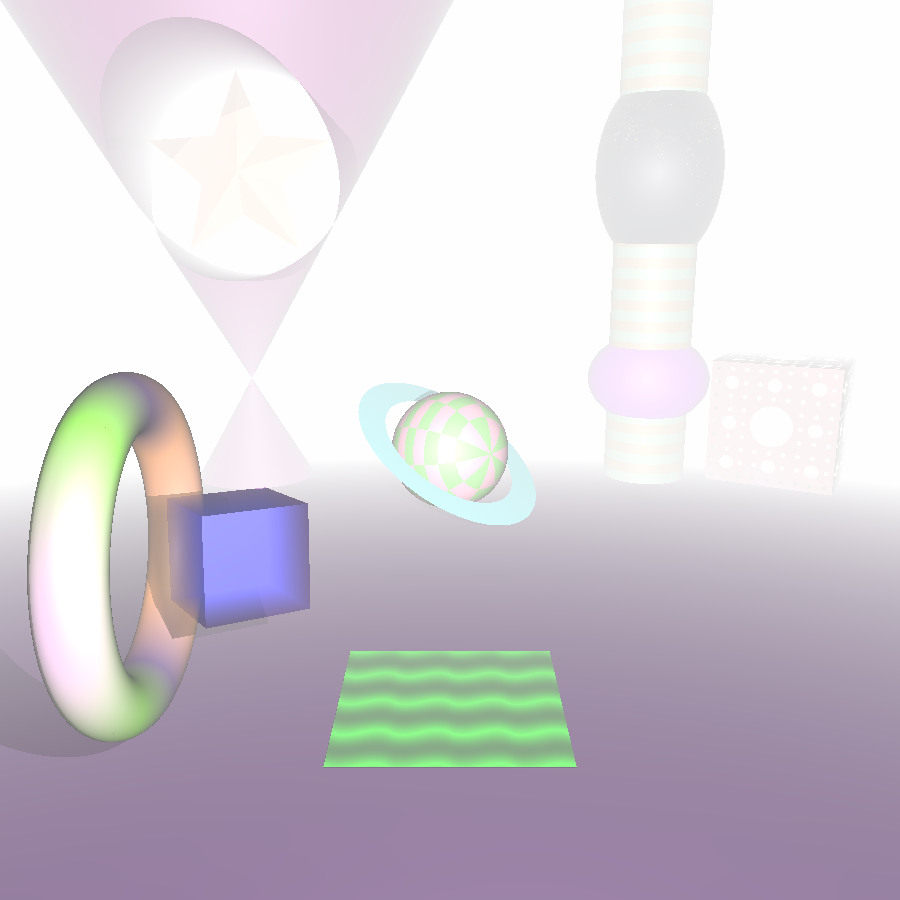
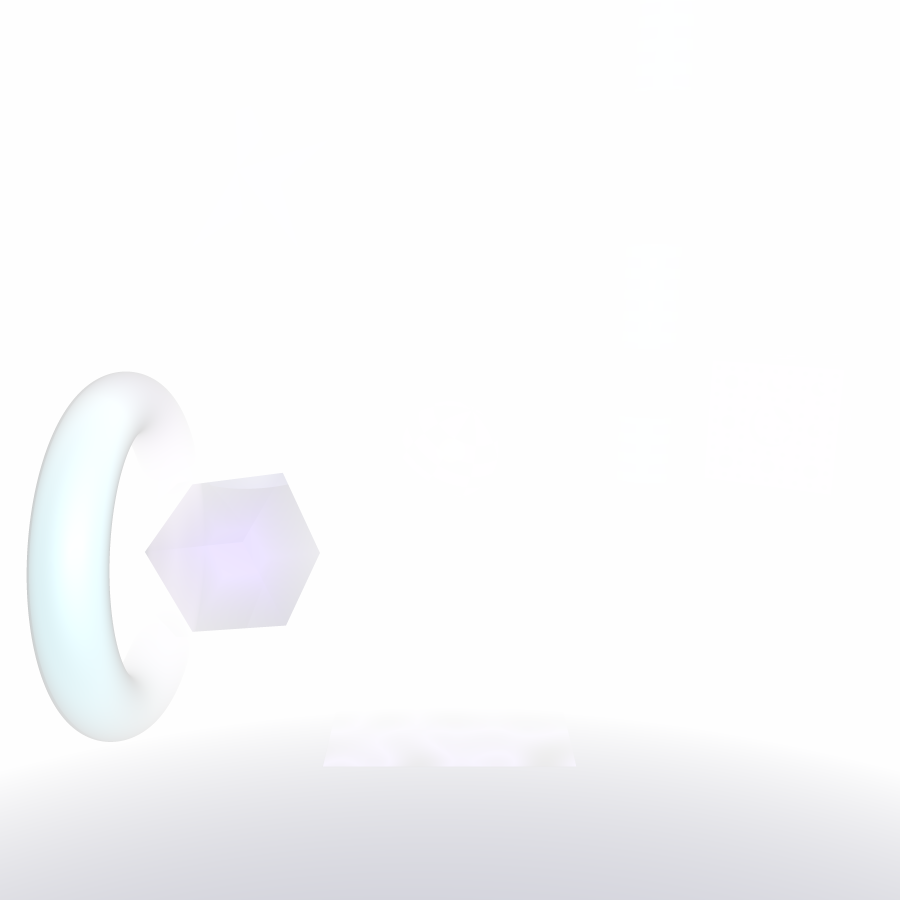
mist video :: all scene

diff --git a/src/main/java/rayTracer/utils/SceneMaker.java b/src/main/java/rayTracer/utils/SceneMaker.java
@@ -375,7 +375,7 @@ public class SceneMaker {
         sphere.updateMatrices(0, 90, 0, 1, 1, 1, 0, 0, 0);
         sphere.setCapacity(CapacityTypeEnum.FULL);
         //sphere.setReflectionRatio(1);
-        sphere.density = 2;
+        sphere.density = 1.0000001;
         objects.add(sphere);
 
         Plane plane1 = new Plane(PatternTypeEnum.GRID, new Color(1, 1, 1), new Color(0, 0, 0));
@@ -1085,7 +1085,6 @@ public class SceneMaker {
     }
 
     public static Camera getAll(List<Obj> objects, List<Light> lights, List<Obj> blacks) {
-        Random rand = new Random();
 
         GradientNoise gradientNoise1 = new GradientNoise(4);
         gradientNoise1.setAmplitude(4);
@@ -1097,11 +1096,11 @@ public class SceneMaker {
         // SIMPLE OBJECTS
 
         // Sphere
-        Sphere sphere = new Sphere(40, PatternTypeEnum.GRID, new Color(), new Color());
-        sphere.updateMatrices(rand.nextInt(360), rand.nextInt(360), rand.nextInt(360), 1, 1, 1, 0, 0, 0);
+        Sphere sphere = new Sphere(40, PatternTypeEnum.GRID, new Color(0.977074, 0.524043, 0.985372), new Color(0.494861, 0.479416, 0.412559));
+        sphere.updateMatrices(25, 210, 100, 1, 1, 1, 0, 0, 0);
         objects.add(sphere);
 
-        sphere = new Sphere(60);
+        sphere = new Sphere(60, new Color(0.013436, 0.119706, 0.325974));
         sphere.updateMatrices(0, 0, 0, 1, 1, 0.75, 300, 200, 0);
         sphere.setCapacity(CapacityTypeEnum.FULL);
         objects.add(sphere);
@@ -1113,7 +1112,7 @@ public class SceneMaker {
         objects.add(sphere);
 
         // Cone
-        Cone cone = new Cone(30);
+        Cone cone = new Cone(30, new Color(0.007845, 0.038946, 0.221346));
         cone.updateMatrices(0, 0, 0, 1, 1, 1, 300, -200, 0);
         cone.setCapacity(CapacityTypeEnum.FULL);
         objects.add(cone);
@@ -1123,38 +1122,38 @@ public class SceneMaker {
         cone.addBlackObject(blackCylinder);
 
         // Cube
-        Cube cube = new Cube(50, new Color(0, 0, 1, 0.1));
-        cube.updateMatrices(rand.nextInt(360), rand.nextInt(360), rand.nextInt(360), 1, 1, 1, -200, -100, 0);
+        Cube cube = new Cube(50, new Color(0.5478, 0.367, 1, 0.1));
+        cube.updateMatrices(78, 159, 12, 1, 1, 1, -200, -100, 0);
         cube.setNormals();
         cube.setCapacity(CapacityTypeEnum.FULL);
         objects.add(cube);
 
         // Cylinder
-        Cylinder cylinder = new Cylinder(40, PatternTypeEnum.HORIZONTAL_LINED, new Color(), new Color(), new Color());
+        Cylinder cylinder = new Cylinder(40, PatternTypeEnum.HORIZONTAL_LINED, new Color(0.270390, 0.819424, 0.743335), new Color(0.383270, 0.560625, 0.790191));
         cylinder.updateMatrices(0, 0, 0, 1, 1, 1, 300, 200, 0);
         objects.add(cylinder);
 
         // Torus
-        Torus torus = new Torus(70, 15, PatternTypeEnum.GRADIENT, new Color(), new Color(), new Color(), new Color(), new Color());
+        Torus torus = new Torus(70, 15, PatternTypeEnum.GRADIENT, new Color("#5EB1BF"), new Color("#CDEDF6"), new Color("#AB81CD"), new Color("#E2ADF2"));
         torus.updateMatrices(90, 0, 0, 1, 1, 1, -200, -150, 0);
         objects.add(torus);
 
         // PLANE SURFACES
 
         // Disk
-        Disk disk = new Disk(50, 70);
+        Disk disk = new Disk(50, 70, new Color(0.578585, 0.618446, 0.976605));
         disk.updateMatrices(-30, -20, 0, 1, 1, 1, 0, 0, 0);
         disk.setNormal();
         objects.add(disk);
 
         // Plane
-        Plane plane = new Plane();
+        Plane plane = new Plane(new Color("#17183B"));
         plane.updateMatrices(0, 0, 0, 1, 1, 1, 0, 0, -100);
         plane.setNormal();
         objects.add(plane);
 
         // Square
-        Square square = new Square(120, PatternTypeEnum.NOISE, new Color(), new Color());
+        Square square = new Square(120, PatternTypeEnum.NOISE, new Color(0.622888, 0.487868, 0.943172), new Color());
         square.updateMatrices(0, 0, 0, 1, 1, 1, -163, 0, -99);
         square.setNormal();
         square.noise = gradientNoise1;
@@ -1163,7 +1162,7 @@ public class SceneMaker {
         // FRACTALS
 
         // Cube fractal
-        CubeFractal cubeFractal = new CubeFractal(3, 120);
+        CubeFractal cubeFractal = new CubeFractal(3, 120, new Color(0.608065, 0.108303, 0.947895));
         cubeFractal.updateMatrices(0, 0, 30, 1, 1, 1, 300, 340, -39);
         cubeFractal.setNormals();
         objects.add(cubeFractal);
@@ -1174,6 +1173,9 @@ public class SceneMaker {
         Polygon star = PolygonFactory.createPolygon(PolygonTypeEnum.STAR, 5, 40, 90, 30);
         star.updateMatrices(0, -90, 0, 1, 1, 1, 300, -200, 200);
         objects.add(star);
+
+        star.clearColors();
+        star.addColor(new Color("#2274A5"));
 
 
         lights.add(new Light(new Point3D(-450, 20, 100), new Color(1, 1, 1)));

diff --git a/src/main/java/rayTracer/RayTracer.java b/src/main/java/rayTracer/RayTracer.java
@@ -44,9 +44,9 @@ public class RayTracer {
             //Random rand = new Random();
             //File savedImage = new File("/Users/kissgautier/Desktop/RayTracerSavedPictures/" + "savedImage_" + rand.nextInt(Integer.MAX_VALUE) + "" + rand.nextInt(Integer.MAX_VALUE) + ".png");
             //ImageIO.write(buffer, "PNG", savedImage);
-//            ImageIO.write(buffer, "PNG", image);
-//            File savedImage = new File("/Users/kissgautier/Desktop/RayTracerSavedPictures/sphere/" + "sphere" + index + ".png");
-//            ImageIO.write(buffer, "PNG", savedImage);
+            ImageIO.write(buffer, "PNG", image);
+            File savedImage = new File("/Users/kissgautier/Desktop/RayTracerSavedPictures/mist/" + "mist" + index + ".png");
+            ImageIO.write(buffer, "PNG", savedImage);
         } catch (Exception e) {
             System.out.println(e.getMessage());
         }
@@ -93,40 +93,28 @@ public class RayTracer {
     }
 
     private static void video() {
-        List<Color> colors = new ArrayList<>() {{
-            add(new Color(1, 0.12, 0.25));
-            add(new Color(0.12, 1, 0.25));
-            add(new Color(0.25, 0.12, 1));
-            add(new Color(0.12, 1, 0.25));
-            add(new Color(1, 0.12, 0.25));
-        }};
         long totalStart = System.nanoTime();
-        int nbImages = 1000;
+        int nbImages = 300;
         rayTracer.config.Config config = new rayTracer.config.Config();
-        cam = SceneMaker.getSimpleSphereNoise(objects, lights, blackObjects);
+        cam = SceneMaker.getAll(objects, lights, blackObjects);
         cam.update(config.height, config.width);
 
         config.objects = objects;
         config.backObjects = blackObjects;
         config.lights = lights;
         config.cam = cam;
-        double[] t = new double[1];
-        t[0] = 0.0;
-        objects.get(0).t = t;
         for(int i = 0; i < nbImages; ++i) {
-            BaseObject baseObject = (BaseObject)objects.get(0);
-            baseObject.colors.set(0, Color.nextColor(colors, (double)i / nbImages));
             long start = System.nanoTime();
             runViaThread(config);
             long end = System.nanoTime();
             System.out.println(index + " :: Time taken: " + ((double)(end - start) / 1000000000D));
             threads.clear();
-            t[0] += 0.001;
+            config.MAX_MIST_DIST -= 10;
             ++index;
         }
         long end = System.nanoTime();
         System.out.println("Total time taken: " + ((double)(end - totalStart) / 1000000000D));
-        String imgPath="/Users/kissgautier/Desktop/RayTracerSavedPictures/sphere/";
+        String imgPath="/Users/kissgautier/Desktop/RayTracerSavedPictures/mist/";
         String vidPath="/Users/kissgautier/Desktop/RayTracerSavedPictures/movie/test.mp4";
         VideoMaker.createMp4File(imgPath, vidPath);
         System.out.println("Video has been created at " + vidPath);
@@ -144,12 +132,13 @@ public class RayTracer {
         long start = System.nanoTime();
         runViaThread(config);
         long end = System.nanoTime();
+        System.out.println(config);
         System.out.println("Time taken: " + ((double)(end - start) / 1000000000D));
     }
 
 
     public static void main(String[] args) {
-        //video();
-        image();
+        video();
+        //image();
     }
 }

diff --git a/src/main/java/rayTracer/config/Config.java b/src/main/java/rayTracer/config/Config.java
@@ -18,13 +18,23 @@ public class Config {
     public final Color ambientLight = new Color(1, 1, 1, 1);
     public int height = 900;
     public int width = 900;
-    public int ANTI_ALIASING = 1;
+    public int ANTI_ALIASING = 5;
     public double MAX_DIST = 60;
     public double SHADOW_DEEPNESS = 0.3;
     public boolean MIST = true;
-    public double MAX_MIST_DIST = 1000;
+    public double MAX_MIST_DIST = 3010;
     public Camera cam;
     public List<Obj> objects = new ArrayList<>();
     public List<Obj> backObjects = new ArrayList<>();
     public List<Light> lights = new ArrayList<>();
+
+    @Override
+    public String toString() {
+        StringBuilder res = new StringBuilder();
+        for(Obj obj: objects) {
+            res.append(obj.toString());
+            res.append("\n");
+        }
+        return res.toString();
+    }
 }

diff --git a/src/main/java/rayTracer/noiser/GradientNoise.java b/src/main/java/rayTracer/noiser/GradientNoise.java
@@ -16,12 +16,7 @@ public class GradientNoise extends Noise{
     private void generateGrid() {
         for (int y = 0; y < scale; ++y) {
             for (int x = 0; x < scale; ++x) {
-                if(y % 2 == 0)
-                    grid[y][x] = new Vector3D(0.5, 0.5, 0);
-                else
-                    grid[y][x] = new Vector3D(-0.5, -0.5, 0);
-                grid[y][x].normalize();
-                //grid[y][x] = Vector3D.generateRandom2DVector();
+                grid[y][x] = Vector3D.generateRandom2DVector();
             }
         }
     }

diff --git a/src/main/java/rayTracer/objects/baseObjects/BaseObject.java b/src/main/java/rayTracer/objects/baseObjects/BaseObject.java
@@ -93,6 +93,13 @@ public abstract class BaseObject extends Obj {
         return pattern;
     }
 
+    @Override
+    public String toString() {
+        String res = "";
+        res += colors.toString();
+        return res;
+    }
+
     public Color getColorAt(Point3D realIntersection) {
         return null;
     }

diff --git a/src/main/java/rayTracer/math/Vector3D.java b/src/main/java/rayTracer/math/Vector3D.java
@@ -178,7 +178,7 @@ public class Vector3D {
     public boolean equals(Object o) {
         if (o == null)
             return false;
-        if (o instanceof Vector3D == false)
+        if (!(o instanceof Vector3D))
             return false;
         Vector3D vector = (Vector3D) o;
         return (
